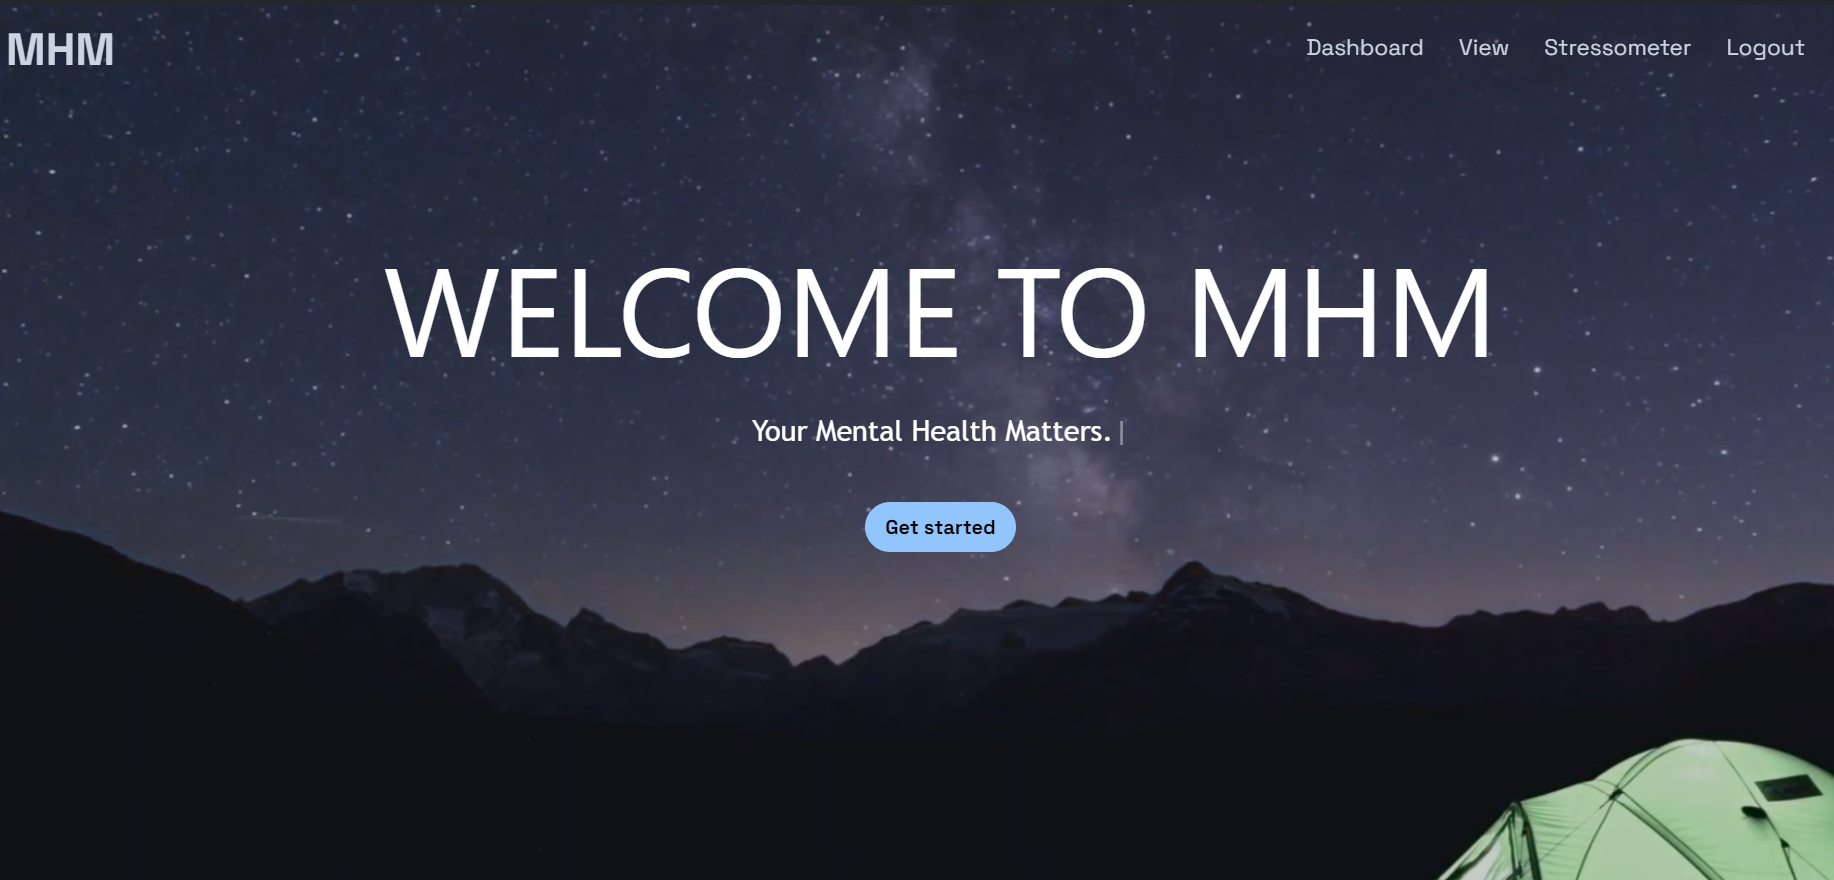
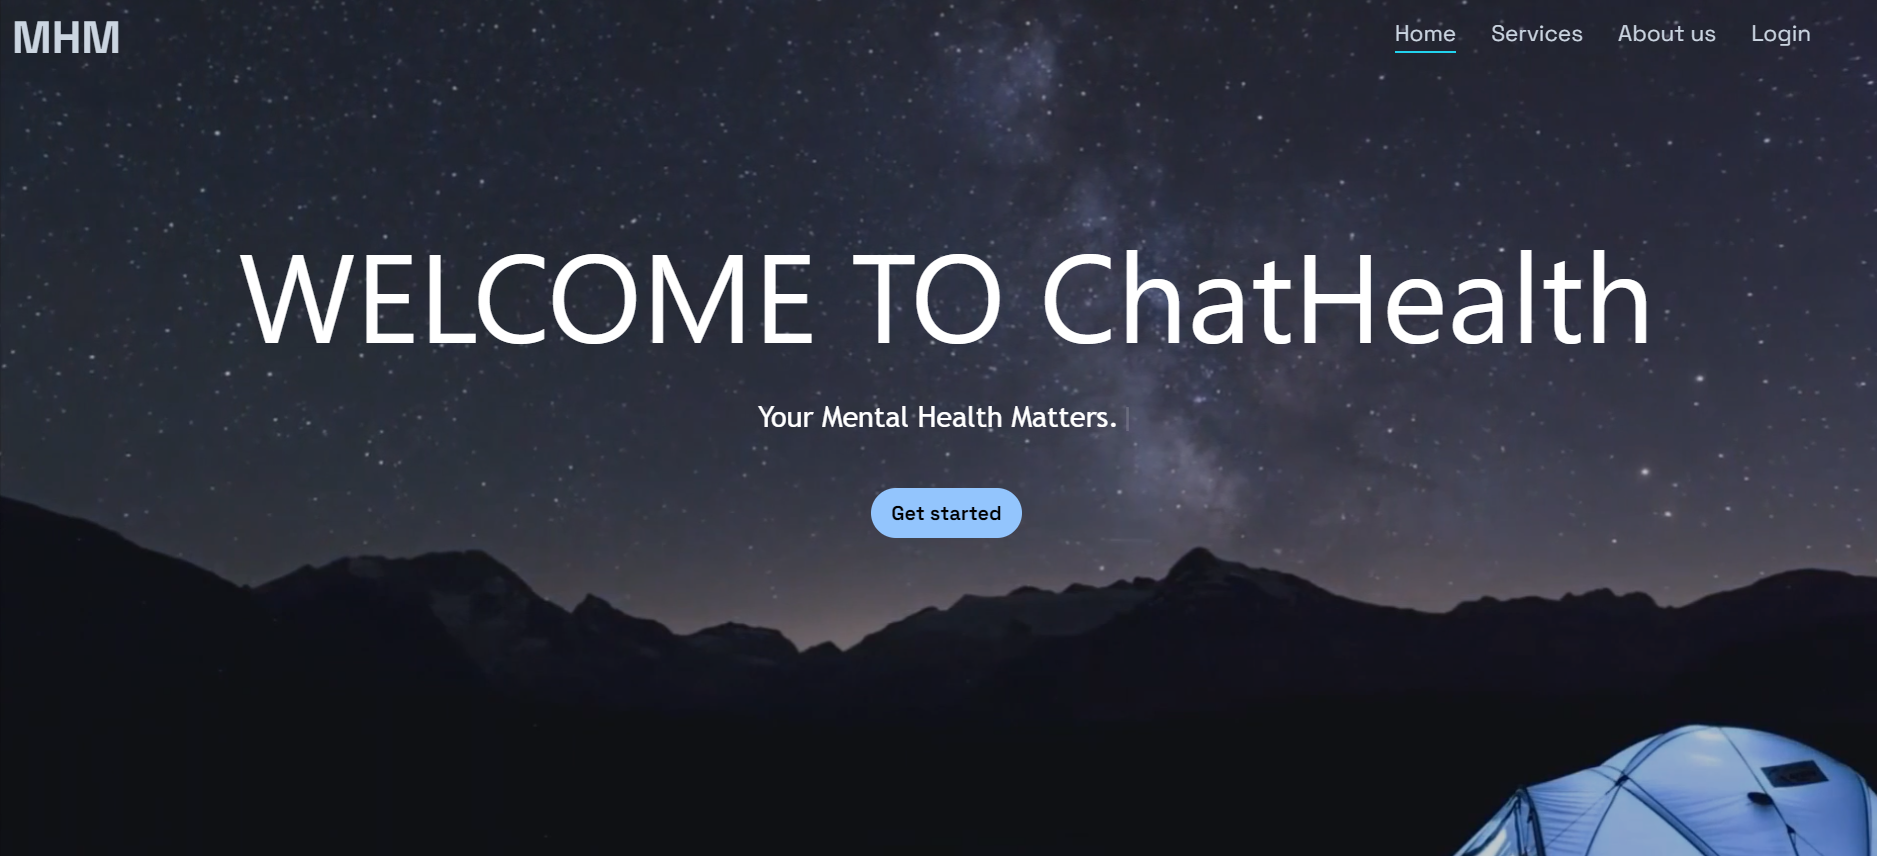
Somechanges on the website

diff --git a/src/content/work/nested/ChatNepali.md b/src/content/work/nested/ChatNepali.md
@@ -1,9 +1,10 @@
 ---
-title: ChatNepali
-img: /assets/ChatNepali.png
+title: ChatHealth
+img: /assets/ChatNepali.png 
 img_alt: Landing page 
 description: |
   We developed a QA web app for our major project.
+  The ChatNepali(Open-Source Nepali Health-QA Language Model with Finetuned Transformers and External Knowledge Bases) aims to provide accessible and accurate health-related information in the Nepali language. By fine-tuning the mT5 transformer model and leveraging a vector database, this project enhances the capability of answering health-related queries with precision and contextual relevance. The system offers valuable second opinions and supports users in making informed health decisions.
 tags:
   - QA model in Health domain
   - Stresslevel Prediction
